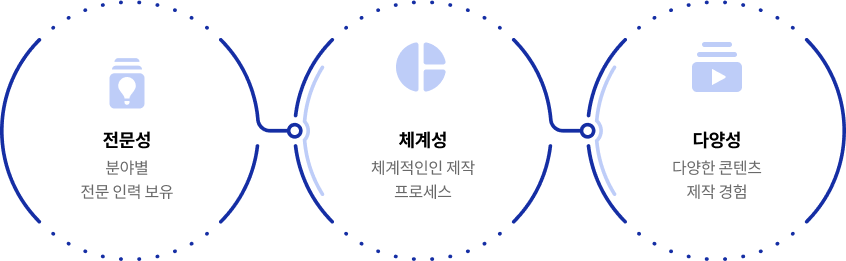
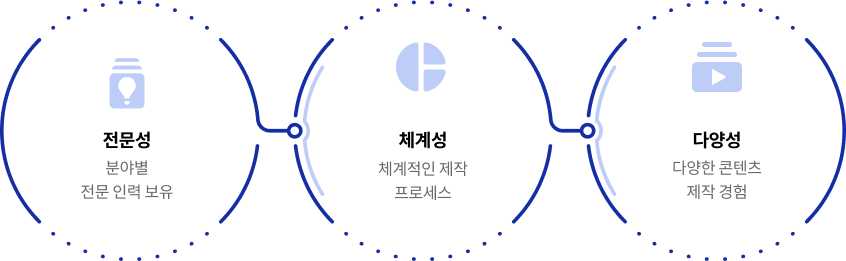
250723_오탈자 수정

Changed region(s): [[0.4303, 0.613, 0.5839, 0.6743], [0.461, 0.705, 0.5532, 0.7663]]

diff --git a/src/pages/Consult.js b/src/pages/Consult.js
@@ -47,7 +47,7 @@ function Consult() {
                 </div>
              </div>
 
-            <div className="input_wrap">
+            <div className="input_wrap input_wrap2">
                 <label>서비스</label>
                 <div className="checkbox_group">
                     <label><input type="checkbox" name="inquiry_type" value="lms" /> HRDe LMS 임대</label>
@@ -57,14 +57,14 @@ function Consult() {
                 </div>
             </div>
    
-            <div className="input_wrap">
+            <div className="input_wrap input_wrap2">
                 <label htmlFor="inquiry_content">문의 내용</label>
                 <textarea name="inquiry_content" id="inquiry_content" rows="8" placeholder="내용을 입력하세요."></textarea>
             </div>
    
-          <div className="input_wrap">
+          <div className="input_wrap input_wrap2">
             <label>유입경로</label>
-            <div className="checkbox_group">
+            <div className="checkbox_group checkbox_group2">
               <label><input type="checkbox" name="referral_source" value="website" /> 검색</label>
               <label><input type="checkbox" name="referral_source" value="ad" /> 광고</label>
               <label><input  type="checkbox" name="referral_source"value="recommend"/> 지인 추천</label>

diff --git a/src/pages/Contents.js b/src/pages/Contents.js
@@ -295,7 +295,7 @@ function Contents() {
                              <li>
                                 <div className="img"><img src="/img/cont/cont-con5-icn4.png" alt="" /></div>
                                 <div className="txt">
-                                  최신 콘텐텐츠 다수 포함<br />
+                                  최신 콘텐츠 다수 포함<br />
                                   주기적으로 업데이트 진행
                                 </div>
                             </li>

diff --git a/src/pages/Consulting.js b/src/pages/Consulting.js
@@ -160,7 +160,7 @@ function Consulting() {
                             <th>단가(VAT 별도)</th>
                         </tr>
                         <tr>
-                            <td>평생교교육원 설립 컨설팅</td>
+                            <td>평생교육원 설립 컨설팅</td>
                             <td>평생교육원으로 인가받기 위한 서류 일체를 안내해 드리고 검토 및 제출합니다.</td>
                             <td>150만원</td>
                         </tr>
